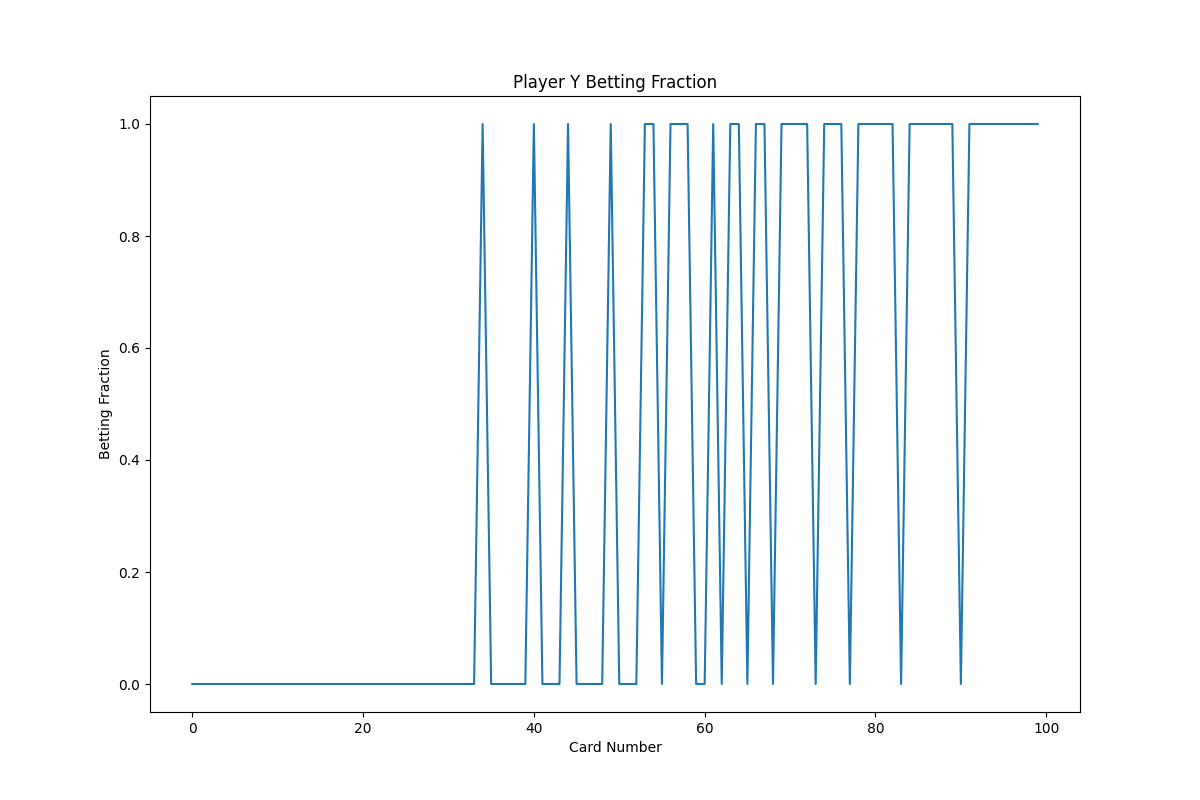
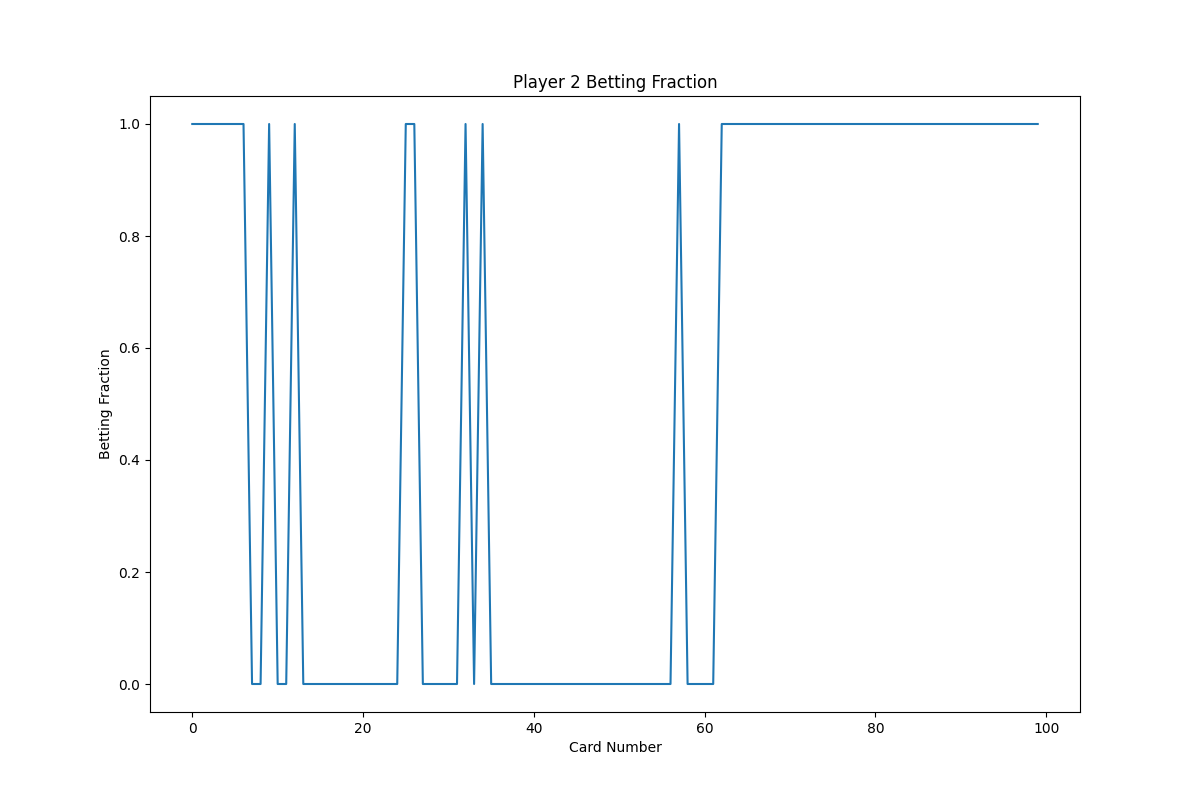
fixing the bug in part 4 finally

diff --git a/part4/poker4.py b/part4/poker4.py
@@ -40,7 +40,7 @@ class Qlearning:
 
 		# exploration probabilities
 		self.exp = 1
-		self.init = 0.3
+		self.init = 0.6
 		self.end = 0.001
 
 		# learning rate & discount factor
@@ -68,7 +68,7 @@ class Qlearning:
 		# else player 1 didn't try to bet and player 2 tries to check
 		elif (p2strat == 4):
 			
-			# we have a showdown
+			# we have a showdown for the pot
 			if (p1c > p2c):
 				return self.a
 			elif (p1c < p2c):
@@ -81,7 +81,7 @@ class Qlearning:
 			return (-self.a)
 		
 		# else we have showdown
-		else: # (here p1fold should be 7)
+		else: # (here p1fold should be 5 and then 7)
 			if (p1c > p2c):
 				return (self.a + self.b)
 			elif (p1c < p2c):
@@ -101,16 +101,16 @@ class Qlearning:
 				return (-self.a)
 			# player 2 does not fold
 			elif (p1c > p2c):
-				return (self.a + self.b)
-			elif (p1c < p2c):
 				return (-self.a - self.b)
+			elif (p1c < p2c):
+				return (self.a + self.b)
 			else: # we tied
 				return (0.0)
 		
 		# else player 1 didn't try to bet and player 2 tries to check
 		elif (p2strat == 4):
 			
-			# we have a showdown
+			# we have a showdown for the pot
 			if (p1c > p2c):
 				return (-self.a)
 			elif (p1c < p2c):
@@ -123,9 +123,9 @@ class Qlearning:
 			return self.a
 		
 		# else we have showdown as player 1 doubles down
-		else: # (here p1fold should be 7)
+		else: # (here p1fold should be 5 and then 7)
 			if (p1c > p2c):
-				return (-self.a + -self.b)
+				return (-self.a - self.b)
 			elif (p1c < p2c):
 				return (self.a + self.b)
 			else:
@@ -148,9 +148,11 @@ class Qlearning:
 					strat1 = 0
 					strat2 = 3
 					strat3 = 6
+					isExplore = 0
 
 					# we first see if we go for both random
 					if (np.random.uniform(0,1) < self.exp):
+						isExplore = 1
 						strat1 = random.randrange(2)
 						if (strat1 == 1):
 							strat2 = random.randrange(2,4)
@@ -168,34 +170,34 @@ class Qlearning:
 
 					# now we could have the case where p1 must call or fold
 					if (strat1 == 0 and strat2 == 5):
-						if (np.random.uniform(0,1) < self.exp):
+						if (isExplore == 1):
+						#if (np.random.uniform(0,1) < self.exp1):
 							strat3 = random.randrange(6,8)
 						else: # we either go exploring or go w/ prev knowledge
 							strat3 = np.argmax(q_table[i,6:])
+							strat3 += 6
 
 					# calculate rewards
 					rwd1 = self.p1_payoff(i, j, strat1, strat3, strat2)
 					rwd2 = self.p2_payoff(i, j, strat1, strat3, strat2)
 
-					if (strat1 == 0 and strat2 == 5):
+					if (strat1 == 0 and strat2 == 5): # if p1 has a choice
 						rwd3 = self.p1_payoff(i, j, strat1, strat3, strat2)
 
 					# update q_values using formula
 					q_table[i,strat1]=(1-self.lr)*q_table[i,strat1]+self.lr*rwd1
 					q_table[j,strat2]=(1-self.lr)*q_table[j,strat2]+self.lr*rwd2
 
-					if (strat1 == 0 and strat2 == 5):
+					if (strat1 == 0 and strat2 == 5): # if p1 has a 2nd choice
 						q_table[i,strat3]=(1-self.lr)*q_table[i,strat3]+self.lr*rwd3				
 
 			# calculate new exploration probabilities
-			r = max(0, (self.N-e)/self.N)
-			self.exp = (self.init-self.end)*r+self.end
+			#r = max(0, (self.N-e)/self.N)
+			#self.exp1 = (self.init-self.end)*r+self.end
 			
 			# calculate the new learning rate
 			self.lr = max(self.min,1/((e+2)**(0.69)))
-			#self.exp = self.lr
-			#self.lr = self.exp
-			#print(self.lr)
+			self.exp = self.lr
 
 		# make our strategies based on the q-value
 		p1bFrac = [0] * self.N
@@ -228,18 +230,27 @@ class Qlearning:
 				p1cFrac[i] = 0
 				
 		print(q_table)
+		print("p1bFrac")
+		print(p1bFrac)
+		print("p1cFrac")
+		print(p1cFrac)
+		print("p2bFrac")
+		print(p2bFrac)
+		print("p2cFrac")
+		print(p2cFrac)
+		#print(p1cFrac)
 		return p1bFrac, p1cFrac, p2bFrac, p2cFrac
 	######################################################################################	
 
 if __name__ == "__main__": ###########################################
 
 	# create games and run Q-learning with multiple iteration numbers:
-	g1 = Qlearning(100, 1, 1, 1000)
+	g1 = Qlearning(100, 1, 1, 20000)
 	b1Frac, c1Frac, b2Frac, c2Frac = g1.train()
 
 	# plot x betting fraction plot
 	plt.figure(figsize=(12,8))
-	plt.title('Player X Betting Fraction')
+	plt.title('Player 1 Betting Fraction')
 	plt.xlabel('Card Number')
 	plt.ylabel('Betting Fraction')
 	plt.plot(b1Frac)
@@ -247,7 +258,7 @@ if __name__ == "__main__": ###########################################
 
 	# plot y betting fraction plot
 	plt.figure(figsize=(12,8))
-	plt.title('Player Y Betting Fraction')
+	plt.title('Player 2 Betting Fraction')
 	plt.xlabel('Card Number')
 	plt.ylabel('Betting Fraction')
 	plt.plot(b2Frac)
@@ -255,30 +266,16 @@ if __name__ == "__main__": ###########################################
 
 	# plot y calling fraction plot
 	plt.figure(figsize=(12,8))
-	plt.title('Player Y Calling Fraction')
+	plt.title('Player 2 Calling Fraction')
 	plt.xlabel('Card Number')
 	plt.ylabel('Calling Fraction')
 	plt.plot(c2Frac)
 	plt.savefig('ycallingFraction.png')
 
-	#calculate check call and check fold fractions
-	xchc = [(1-b1Frac[i])*(c1Frac[i]) for i in range(100)]
-	xchf = [(1-b1Frac[i])*(1-c1Frac[i]) for i in range(100)]
-	xbchc = [b1Frac[i] + xchc[i] for i in range(100)]
-	xbchf = [b1Frac[i] + xchf[i] for i in range(100)]
-	xchfchc = [xchf[i] + xchc[i] for i in range(100)]
-
 	# plot calling fraction plot
-	plt.clf()
 	plt.figure(figsize=(12,8))
-	plt.title('Player X Betting, Check Fold, and Check Call Fractions and Their Pairwise Sums')
+	plt.title('Player 1 Calling Fraction')
 	plt.xlabel('Card Number')
-	plt.ylabel('Fractions')
-	plt.plot(b1Frac, label='Bet')
-	plt.plot(xchc, label='Check Call')
-	plt.plot(xchf, label='Check Fold')
-	plt.plot(xbchc, label='Bet + Check Call')
-	plt.plot(xbchf, label='Bet + Check Fold')
-	plt.plot(xchfchc, label='Check Fold + Check Call')
-	plt.legend()
+	plt.ylabel('Calling Fraction')
+	plt.plot(c1Frac)
 	plt.savefig('xcombinedFraction.png')
